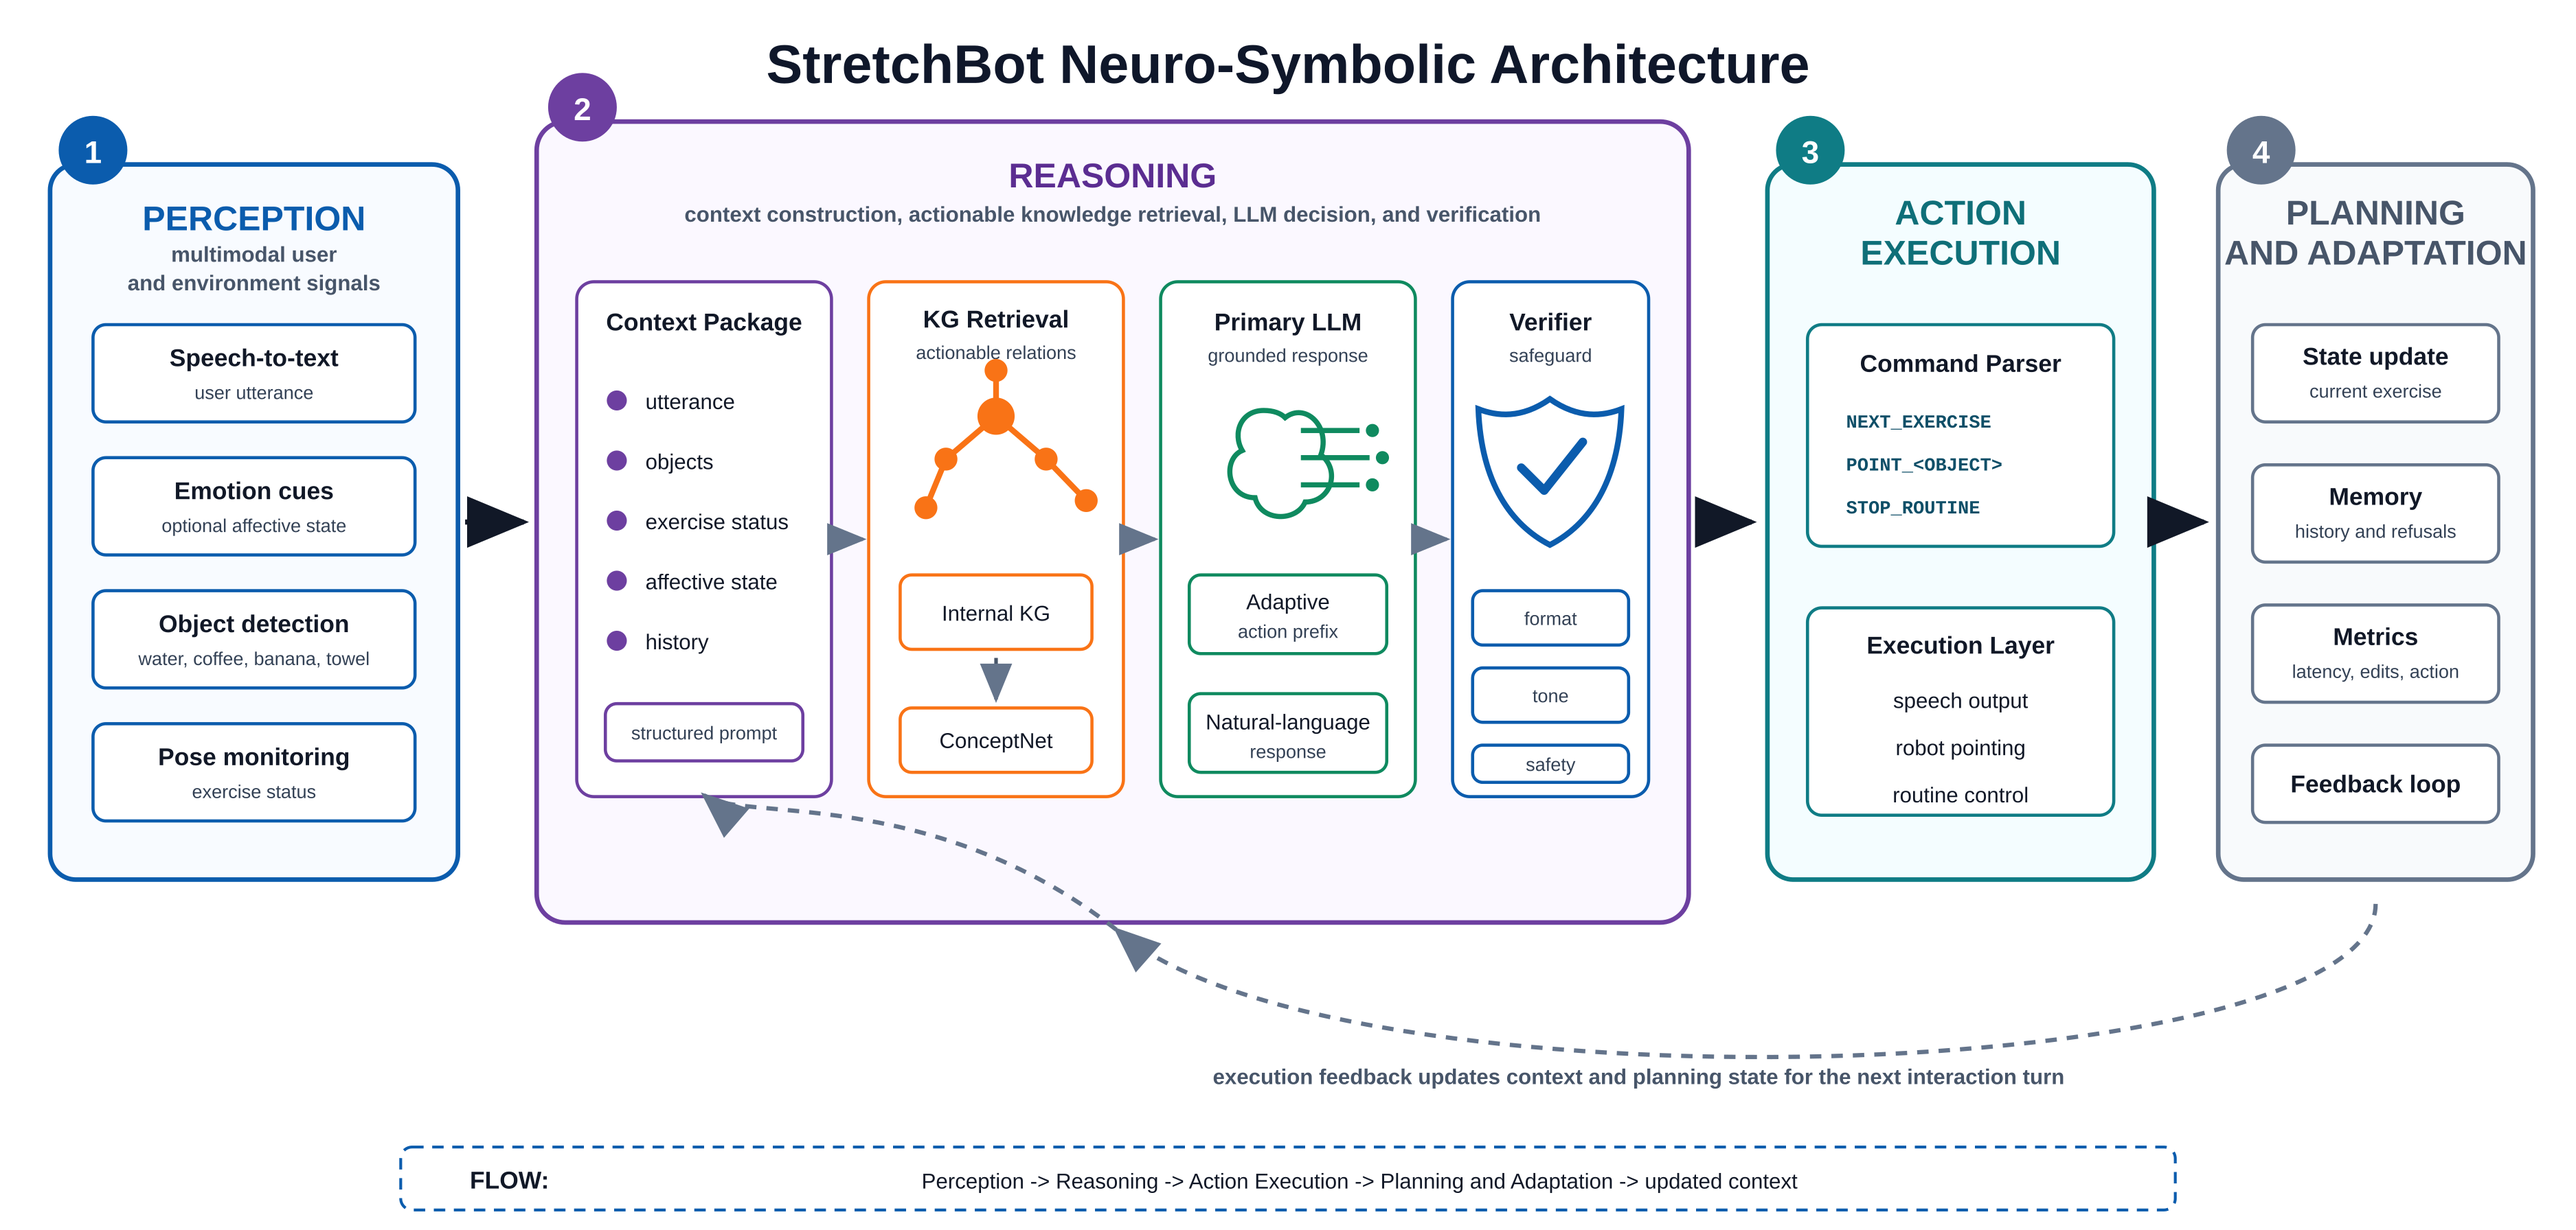
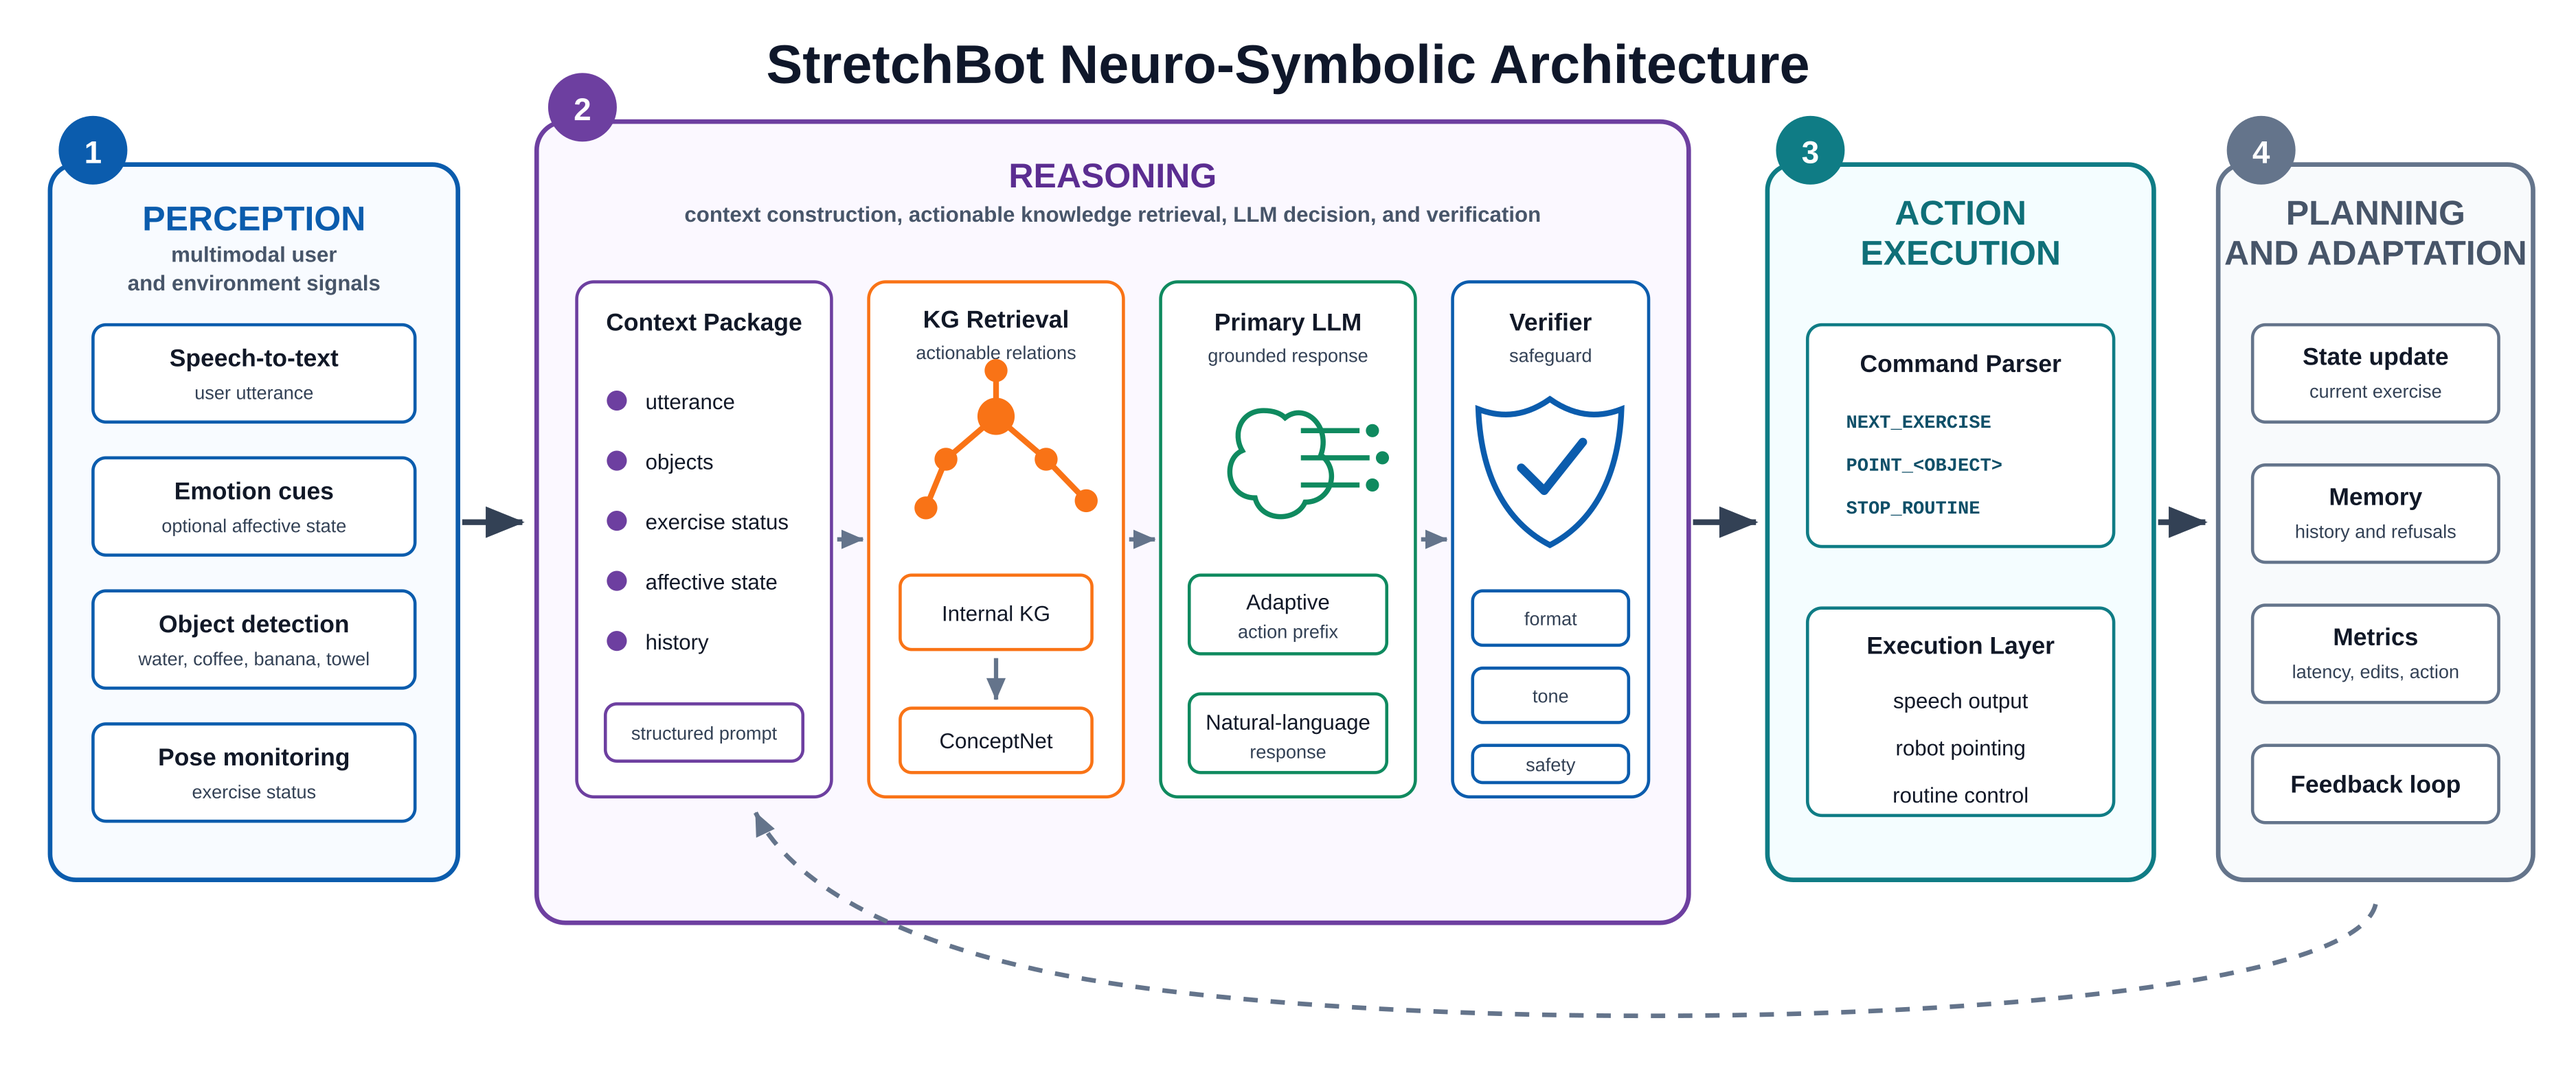
Update revision logs for final architecture figure

diff --git a/REBUTTAL_DRAFT.md b/REBUTTAL_DRAFT.md
@@ -10,7 +10,7 @@ Below we provide a point-by-point response. Section references should be checked
 
 **Comment:** The three most important points are: (1) the small sample size and pilot framing, plus failure cases, long-term LLM usage findings if possible, and an LLM baseline comparison; (2) detailed answers to the competency questions; and (3) additional information, including an architecture image and evaluation explanation.
 
-**Response:** We addressed these points in the revised manuscript. First, we strengthened the pilot/prototype framing throughout the paper and now explicitly state that the N=3 user study is exploratory and not intended for statistical generalization. Second, we added competency questions describing the expected reasoning behavior of the system, including fatigue support, pain response, refusal memory, exercise transitions, unavailable objects, invalid commands, unsafe requests, and KG coverage gaps. Third, we added and clarified visual material, including a system-level architecture figure, a detailed interaction-pipeline figure, and a physical setup figure. Fourth, we added an evaluation-design rationale explaining why the pilot and custom questionnaire were used. Fifth, we added a prompt-level ablation over 30 scripted scenarios comparing LLM-only, KG+LLM, and KG+LLM+verifier conditions. Finally, we expanded the failure-case and longer-session discussion.
+**Response:** We addressed these points in the revised manuscript. First, we strengthened the pilot/prototype framing throughout the paper and now explicitly state that the N=3 user study is exploratory and not intended for statistical generalization. Second, we added competency questions describing the expected reasoning behavior of the system, including fatigue support, pain response, refusal memory, exercise transitions, unavailable objects, invalid commands, unsafe requests, and KG coverage gaps. Third, we replaced the architecture figure with a revised four-stage architecture that also details the KG/LLM/verifier/parser flow inside the Reasoning stage, and we added a physical setup figure. Fourth, we added an evaluation-design rationale explaining why the pilot and custom questionnaire were used. Fifth, we added a prompt-level ablation over 30 scripted scenarios comparing LLM-only, KG+LLM, and KG+LLM+verifier conditions. Finally, we expanded the failure-case and longer-session discussion.
 
 ## Reviewer 1
 
@@ -105,7 +105,7 @@ Below we provide a point-by-point response. Section references should be checked
 - Harmonized the object list in the setup and evaluation sections to water, coffee, banana, and towel.
 - Removed misleading references to a chair as a pilot object where it was not part of the actual setup.
 - Replaced "water bottle" wording with water / cup or glass of water where appropriate.
-- Kept the original system-level architecture figure and added a second detailed pipeline figure focused on the KG/LLM/verifier/parser interaction loop.
+- Replaced the original architecture figure with a revised Figure 1 that keeps the four main stages while adding the detailed KG/LLM/verifier/parser interaction loop inside the Reasoning stage.
 - Added Appendix A with an example system prompt.
 - Added Appendix B with the verifier prompt used in the prompt-level ablation.
 - Added a note after the ablation table explaining that correctness was manually assessed against predefined expected actions.

diff --git a/CHANGELOG_REVIEWERS.md b/CHANGELOG_REVIEWERS.md
@@ -28,9 +28,9 @@ This document summarizes the main revisions made to the manuscript in response t
 
 ## System Architecture
 
-- Kept the original system-level architecture figure as the main overview because the surrounding text is organized around it.
-- Added a second detailed interaction-pipeline figure focused on the per-turn KG/LLM/verifier/parser flow.
-- Clarified that the first figure gives the high-level system structure, while the new figure details context packaging, KG retrieval, primary LLM generation, verifier checking, and command parsing before execution.
+- Replaced the original architecture figure with a revised four-stage architecture figure organized around Perception, Reasoning, Action Execution, and Planning and Adaptation.
+- Integrated the detailed per-turn KG/LLM/verifier/parser flow inside the Reasoning stage of the new Figure 1, so the figure now preserves the manuscript's original four-stage structure while adding the reviewer-requested implementation detail.
+- Added a dashed feedback arrow to show how execution feedback updates the context, routine state, and interaction history for the next interaction turn.
 - Clarified the information flow from perception to context construction, KG retrieval, primary LLM reasoning, verifier, command parser/execution, and planning-state update.
 - Clarified the verifier as a safeguard for command-format checking, object-availability filtering, and safety-related corrections.
 - Made optional/prototype components clearer, especially affective sensing and verifier use.
@@ -109,7 +109,7 @@ This document summarizes the main revisions made to the manuscript in response t
 
 - Checked object naming consistency across the text.
 - Identified DOI formatting issues where references contained duplicated DOI URL prefixes; these should be corrected in the bibliography source before final submission.
-- Verified that the architecture figures have distinct roles: one system-level overview and one detailed interaction pipeline.
+- Verified that Figure 1 now serves as both the system-level overview and the detailed KG/LLM/verifier interaction pipeline, avoiding duplicate architecture figures.
 
 ## Submission Notes
 
